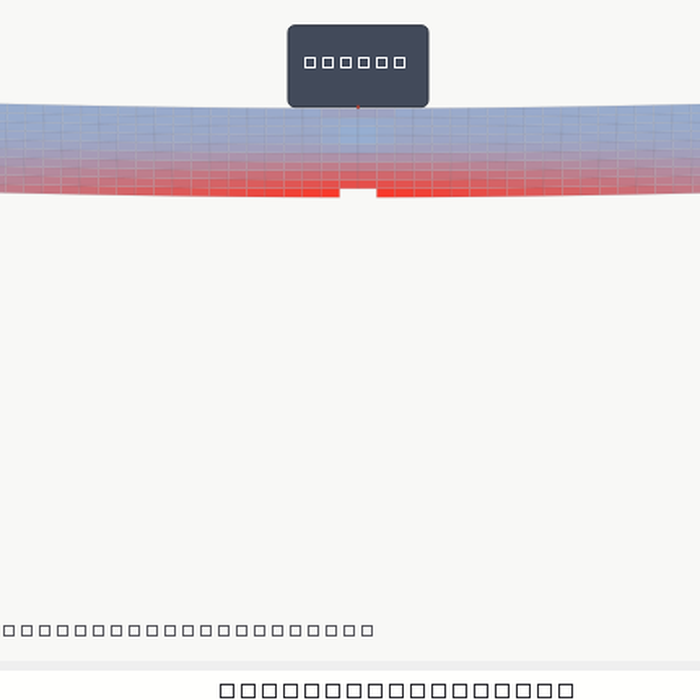
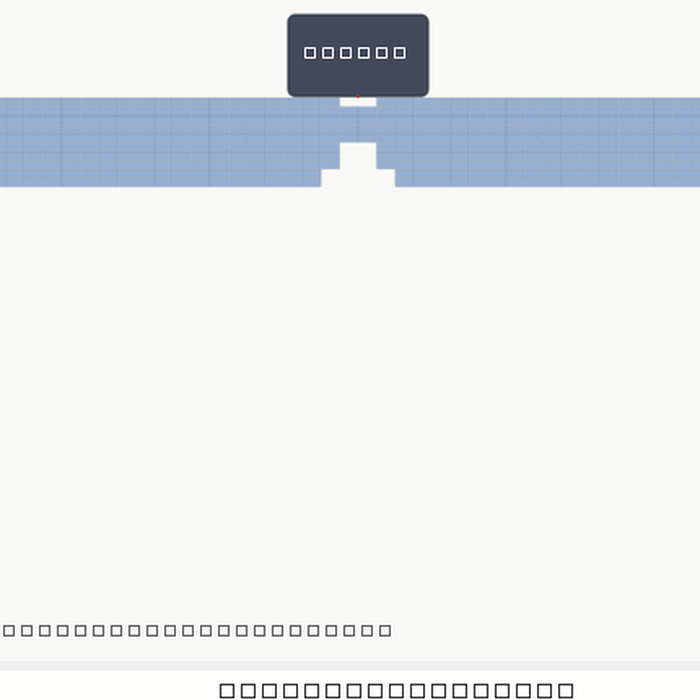
feat(beam): hold the load after fracture and draw the supports as timber posts
The tick loop kept adding mass after the first element failed, so a broken beam was still being loaded harder every frame; it now freezes the load at the fracture value (verified: 1498.8 kg at break and 1498.8 kg forty frames later) and only continues the collapse simulation. The two support triangles are replaced by wooden posts: a 15 px timber plank from the ground line up to the deformed underside of each end, with grain lines and the nail drawn at the mid-height end node where the dofs are actually constrained.

Changed region(s): [[0.0, 0.0, 1.0, 0.3], [0.54, 0.9, 0.57, 0.93]]

diff --git a/apps/Physics/Beam.py b/apps/Physics/Beam.py
@@ -400,15 +400,24 @@ class BeamCanvas(QWidget):
         broken = app.broken_mask
         limit = sim.sigma_ult
 
-        for node in (0, sim.nx):
-            sx = margin_x + sim.nodes[node, 0] * scale_x
-            sy = base_y - sim.nodes[node, 1] * scale_x + 6
-            p.setBrush(QColor(90, 90, 96))
+        # 两侧木条支座（钉子钉在端面中高处）
+        post_w = 15.0
+        ground_y = base_y + (sim.h * 0.5 + 0.30) * scale_x
+        for node in (sim.left_node, sim.right_node):
+            sx = margin_x + float(pos[node, 0]) * scale_x
+            top_y = base_y - (float(pos[node, 1]) - sim.h * 0.5) * scale_x
+            wood = QColor(176, 136, 92)
+            p.setBrush(wood)
+            p.setPen(QPen(QColor(122, 92, 58), 1.2))
+            p.drawRect(QRectF(sx - post_w / 2, top_y, post_w, ground_y - top_y))
+            # 木纹
+            p.setPen(QPen(QColor(150, 114, 74), 1))
+            for k in (-4, 0, 4):
+                p.drawLine(QPointF(sx + k, top_y + 3), QPointF(sx + k, ground_y - 3))
+            # 钉子
+            p.setBrush(QColor(70, 70, 75))
             p.setPen(Qt.NoPen)
-            p.drawPolygon(QPolygonF([QPointF(sx, sy), QPointF(sx - 15, sy + 22),
-                                     QPointF(sx + 15, sy + 22)]))
-            p.setPen(QPen(QColor(150, 150, 155), 2))
-            p.drawLine(QPointF(sx - 22, sy + 22), QPointF(sx + 22, sy + 22))
+            p.drawEllipse(QPointF(sx, base_y - float(pos[node, 1]) * scale_x), 4.5, 4.5)
 
         for e, conn in enumerate(sim.conn):
             if broken[e]:
@@ -568,6 +577,7 @@ class BeamApp(QMainWindow):
         self.load_pos = None
         self.running = False
         self.broken = False
+        self.break_load = 0.0
         self.runs = []
         self.sweep_mode = None
         self.sim = None
@@ -615,15 +625,20 @@ class BeamApp(QMainWindow):
     def tick(self):
         if not self.running or self.sim is None:
             return
-        frac = self.load / max(1.0, self.capacity_ref)
-        step = max(6.0, self.capacity_ref * 0.008) * (1.0 if frac < 0.8 else 0.35)
-        self.load += step
-        new_break = self.sim.step(self.load, substeps=self.substeps)
+        if self.broken:
+            # 已经断了：不再加重物，只按断裂时的载荷继续算塌落
+            new_break = self.sim.step(self.break_load, substeps=self.substeps)
+        else:
+            frac = self.load / max(1.0, self.capacity_ref)
+            step = max(6.0, self.capacity_ref * 0.008) * (1.0 if frac < 0.8 else 0.35)
+            self.load += step
+            new_break = self.sim.step(self.load, substeps=self.substeps)
         self.pos = self.sim.positions()
         self.elem_stress = self.sim.stresses()
         self.broken_mask = self.sim.broken_mask()
         if new_break and not self.broken:
             self.broken = True
+            self.break_load = self.load
             self.runs.append({"L": self.beam_length, "h": self.beam_height, "P": self.load,
                               "x": self.beam_height * 100 if self.sweep_mode == "height"
                               else self.beam_length})
